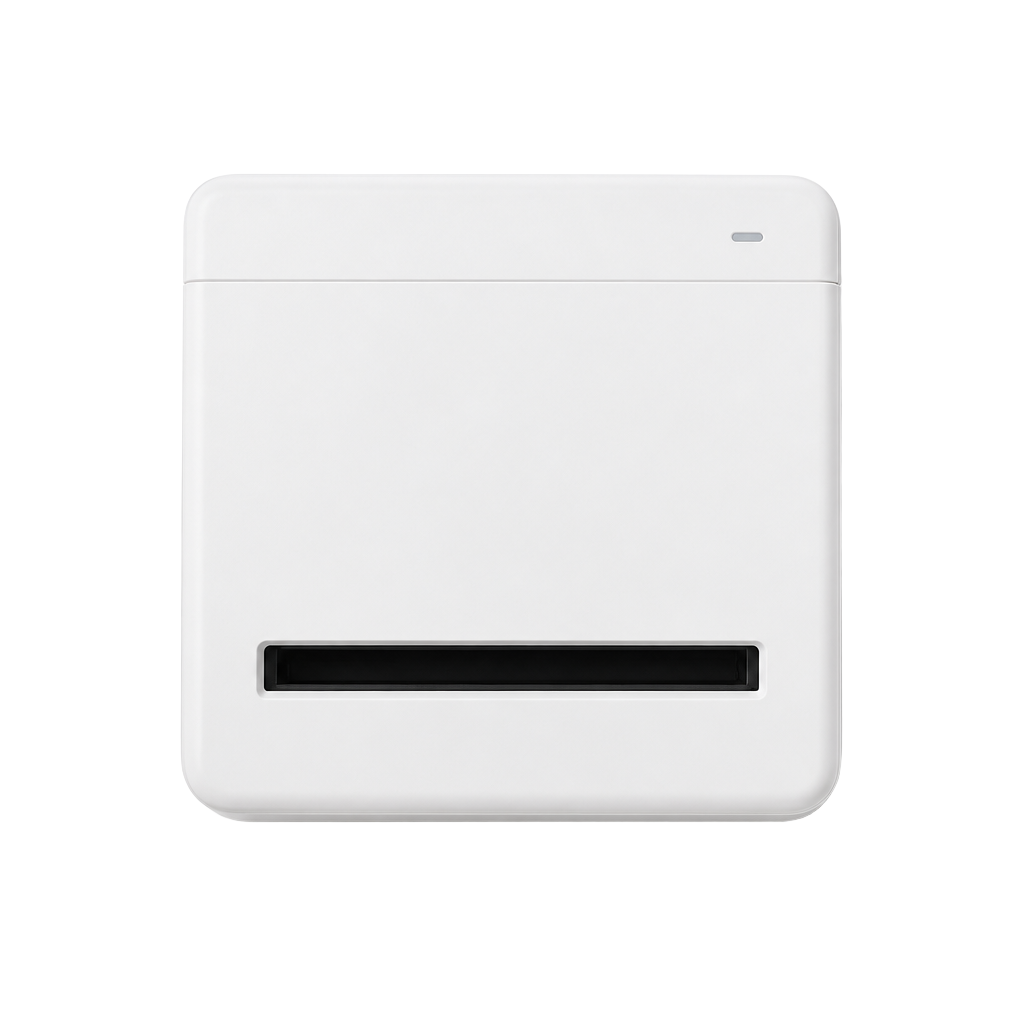
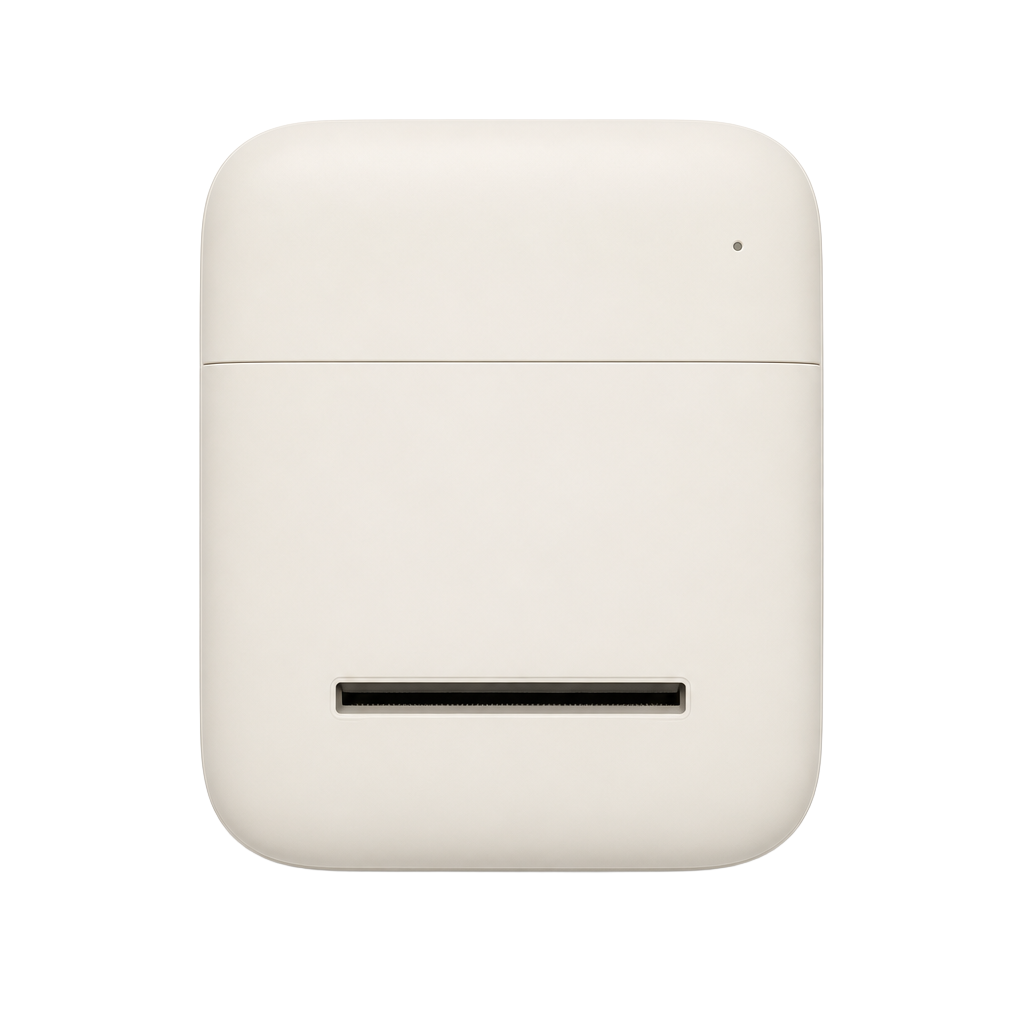
Changes

Changed region(s): [[0.1875, 0.0938, 0.8438, 0.875], [0.25, 0.625, 0.75, 0.7188], [0.7188, 0.2188, 0.75, 0.25]]

diff --git a/.lovable/plan.md b/.lovable/plan.md
@@ -1,18 +1,22 @@
-## Bug
+Refresh the printer illustration so it feels more considered and matches the receipt's warm, tactile aesthetic — without changing the flow or animation logic.
 
-The museum autocomplete returns empty results for valid queries (e.g. `M+`, `V&A`) and has intermittently 500'd. Root causes in `src/lib/visits.functions.ts`:
+## What changes
 
-1. `normalizeMuseumText("M+")` strips all non-alphanumerics and returns `""`, so `scoreKnownMuseum` bails and local matching yields no hits.
-2. When the AI call throws (bad key, network, provider error), the error currently bubbles up as a 500 instead of a safe empty payload.
-3. `M+` (Hong Kong) and a few other short-name museums (`V&A` alone is aliased but `M+` isn't) aren't in the local dataset.
+Regenerate `src/assets/printer.png` as a bird's-eye render with a more refined industrial-design language:
 
-## Fix
+- Softer, off-white / warm ivory body (subtly tinted toward the receipt's cream `--paper`) so the printer sits in the same visual world as the receipt instead of reading as pure clinical white.
+- Rounded pill-shaped silhouette with a gentle top-shell seam and a slim recessed front panel around the slot, giving it a small, boutique "object" feel (à la Muji / Braun / Teenage Engineering).
+- A darker, precisely drawn slot with a subtle inner lip shadow, sized to keep the current 47% slot width so the receipt still emerges exactly slot-width.
+- One small status indicator dot and one hairline seam — no logos, no text, no clutter.
+- Soft ambient contact shadow beneath, transparent background preserved.
 
-Edit only `src/lib/visits.functions.ts`:
+## What stays the same
 
-- Add symbol-preserving fallback: if `normalizeMuseumText(query)` yields `""`, retry with a looser normalizer that keeps `+`, `&`, and digits so `m+`, `v&a`, `21c` still score.
-- Add missing short-name museums to `knownMuseums` (e.g. `M+` Hong Kong, `21c Museum`, `Mori Art Museum`).
-- Wrap the `suggestMuseums` handler body in `try/catch` returning `{ suggestions: localMuseumSuggestions(query) }` on any thrown error — never surface a 500 to the client.
-- Ensure `generateJsonObject` swallows its own errors (already does) and that `dedupeSuggestions` never throws on malformed AI output.
+- `src/components/printer-stage.tsx` logic, timings, warmup bar, and crumpled-paper receipt overlay.
+- Slot geometry constants (`SLOT_Y_PCT`, `SLOT_WIDTH_PCT`) — the new render targets those same proportions so no code changes are needed. If the regenerated image lands slightly off, nudge only those two constants.
+- Receipt component, download gating, and print flow.
 
-No UI changes. No schema changes.
+## Technical notes
+
+- Single file replaced: `src/assets/printer.png` (transparent PNG, 1024×1024).
+- After regeneration, visually verify the slot sits at ~64% height and ~47% width; adjust the two constants in `printer-stage.tsx` only if needed.
